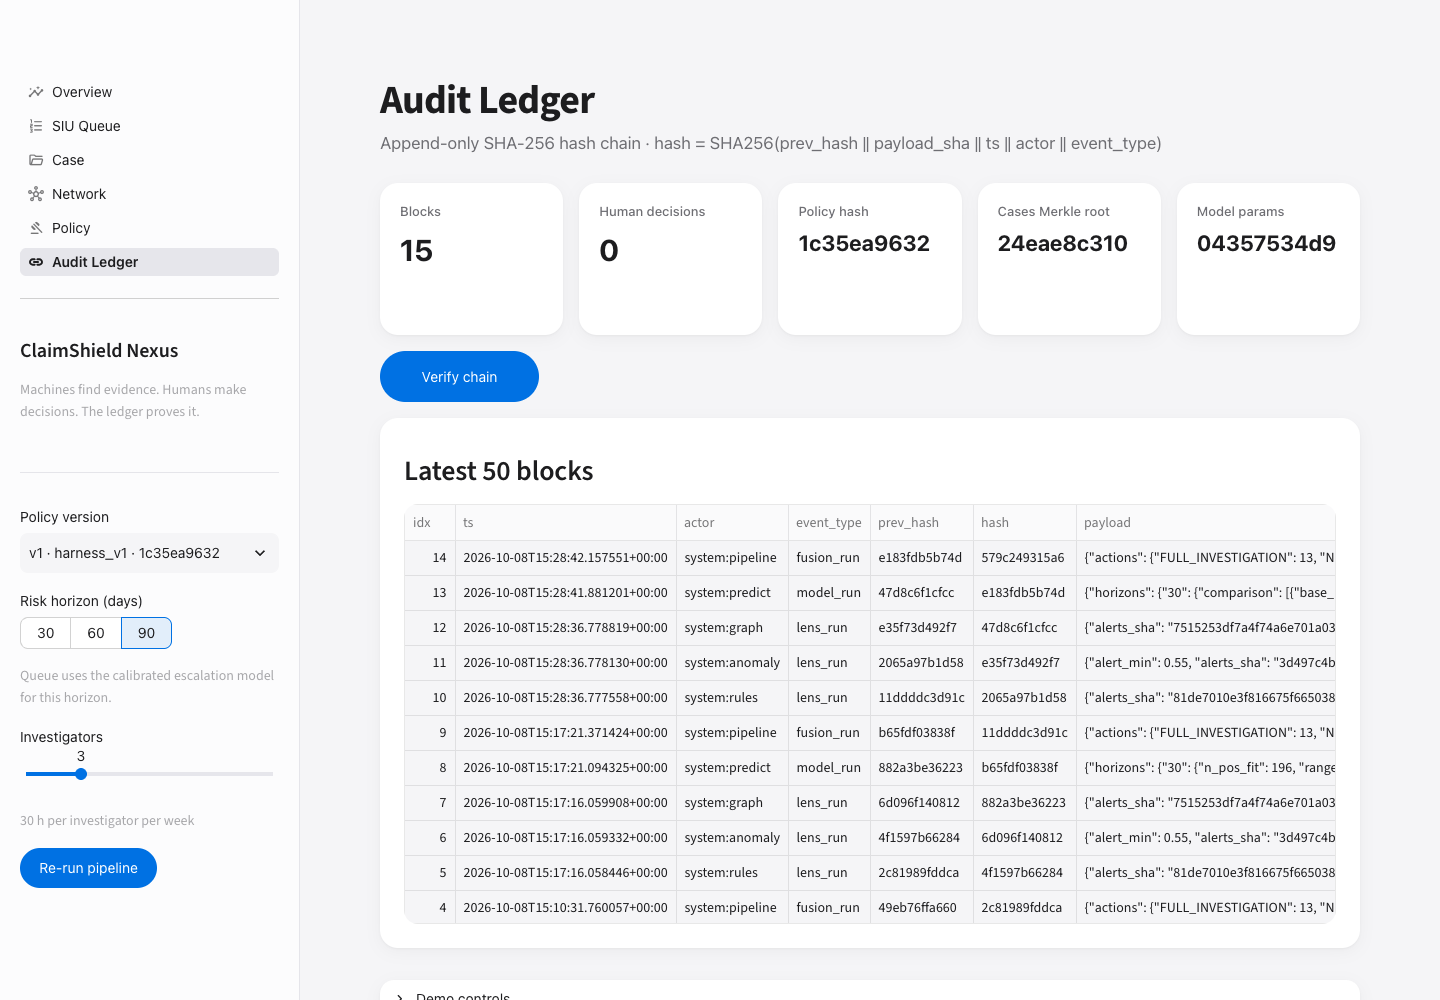
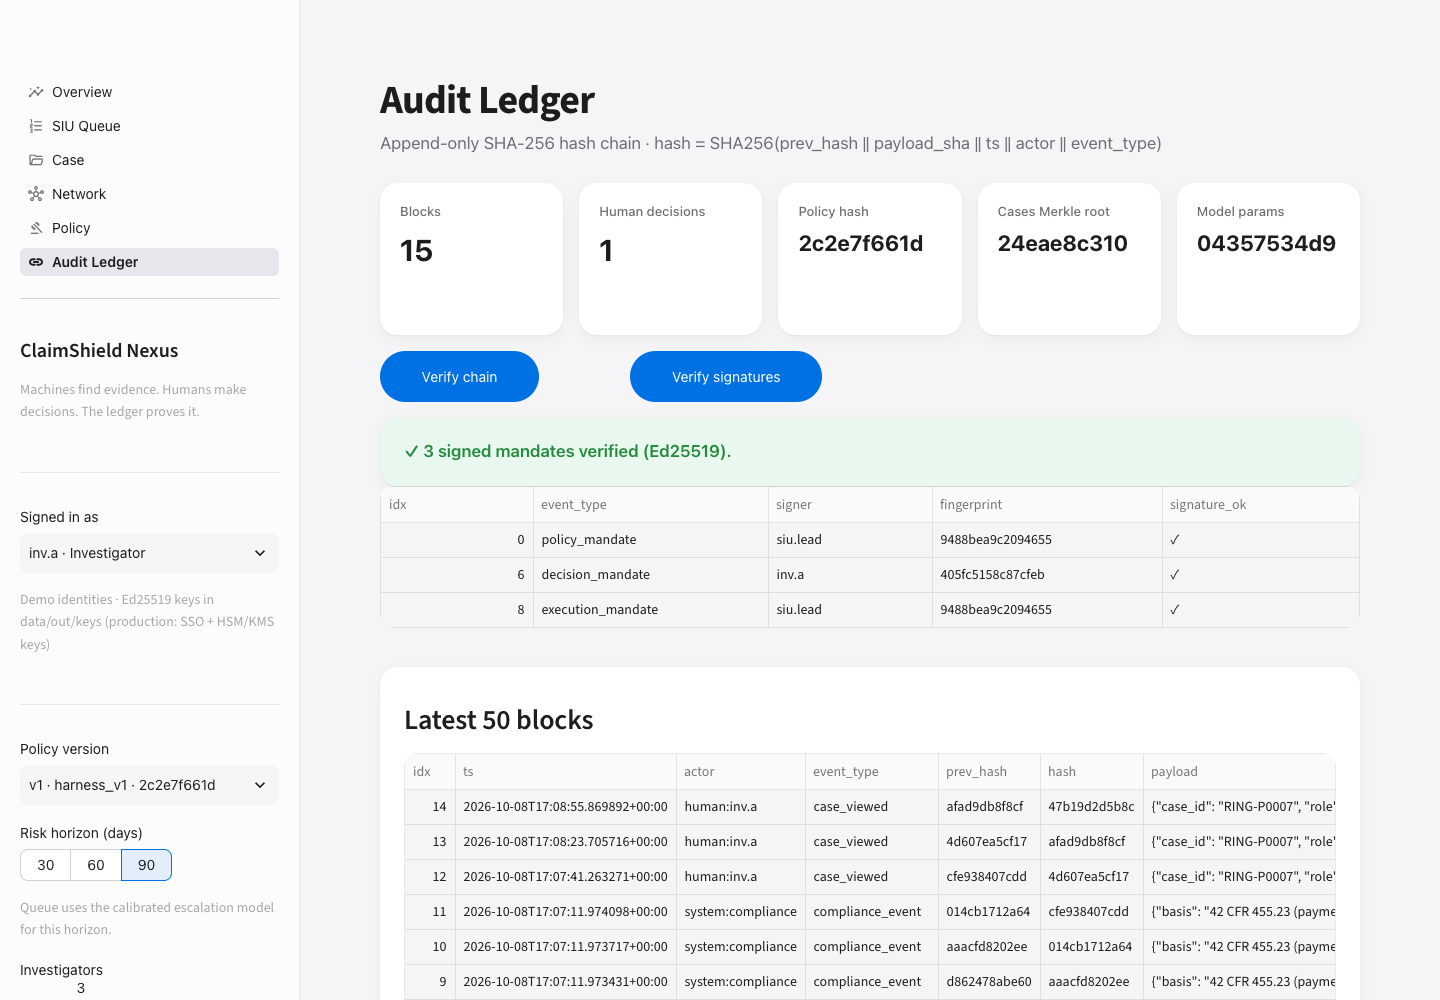
docs: refresh screenshots

diff --git a/README.md b/README.md
@@ -49,15 +49,15 @@ Medicaid program-integrity teams get far more fraud, waste and abuse (FWA) signa
 <table>
   <tr>
     <td width="50%"><img src="docs/img/overview.png" alt="Overview page"><br><sub><b>Overview</b> — 9,061 flagged claims collapse into 63 cases needing investigator time; 7 fit this week.</sub></td>
-    <td width="50%"><img src="docs/img/queue.png" alt="SIU queue page"><br><sub><b>SIU Queue</b> — capacity-ranked slate; must-take cases first, over-capacity flagged for the SIU lead.</sub></td>
+    <td width="50%"><img src="docs/img/queue.png" alt="SIU queue page"><br><sub><b>SIU Queue</b> — capacity-ranked slate with next compliance deadline; must-take cases first.</sub></td>
   </tr>
   <tr>
-    <td><img src="docs/img/case.png" alt="Ring case page"><br><sub><b>Ring case</b> — five providers sharing owner, address and bank, with every evidence row cited.</sub></td>
+    <td><img src="docs/img/case.png" alt="Ring case page"><br><sub><b>Ring case, Compliance tab</b> — regulatory basis and the obligations created by a dual-signed MFCU referral.</sub></td>
     <td><img src="docs/img/network.png" alt="Network page"><br><sub><b>Network</b> — ring members in red, referral loops in bold red, shared owner/address/bank links.</sub></td>
   </tr>
   <tr>
     <td><img src="docs/img/policy.png" alt="Policy page"><br><sub><b>Policy</b> — humans edit thresholds, preview the impact, then save a new hashed version.</sub></td>
-    <td><img src="docs/img/ledger.png" alt="Audit ledger page"><br><sub><b>Audit Ledger</b> — append-only SHA-256 chain with one-click verification.</sub></td>
+    <td><img src="docs/img/ledger.png" alt="Audit ledger page"><br><sub><b>Audit Ledger</b> — SHA-256 hash chain plus Ed25519 signature verification of every mandate.</sub></td>
   </tr>
 </table>
 
